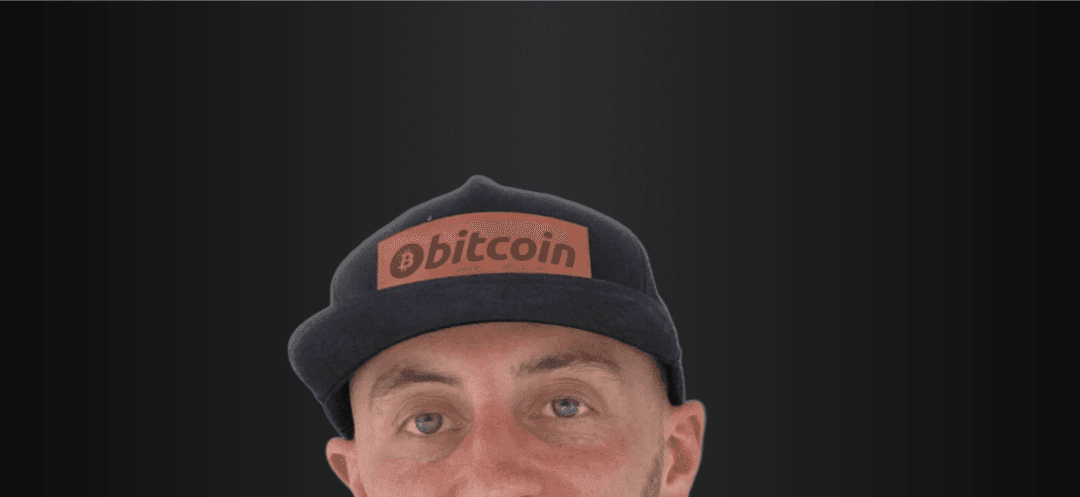
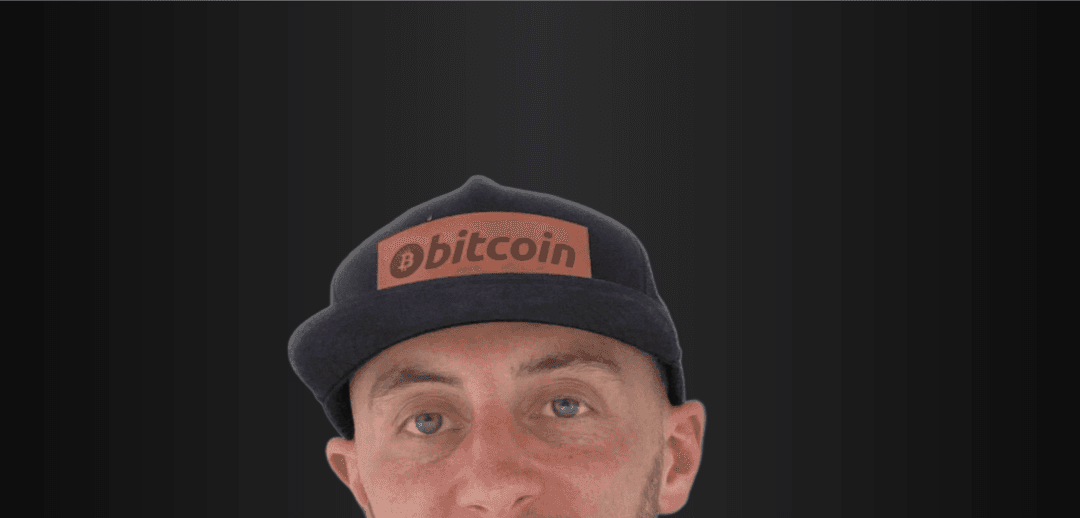
Fix CONTACT nav overflow on narrow phones, replace overly-tight mobile photo crop with fuller safe crop

Changed region(s): [[0.2444, 0.5734, 0.6722, 1.0], [0.3056, 0.332, 0.6111, 0.6036]]

diff --git a/contact.html b/contact.html
@@ -5,7 +5,7 @@
   <meta name="viewport" content="width=device-width, initial-scale=1.0" />
   <title>Contact &mdash; Christian Tiberia</title>
   <link rel="icon" type="image/png" href="images/CT Monogram.png" />
-  <link rel="stylesheet" href="style.css?v=7" />
+  <link rel="stylesheet" href="style.css?v=8" />
   <link rel="preconnect" href="https://fonts.googleapis.com" />
   <link rel="preconnect" href="https://fonts.gstatic.com" crossorigin />
   <link href="https://fonts.googleapis.com/css2?family=Archivo+Black&display=swap" rel="stylesheet" />

diff --git a/about.html b/about.html
@@ -5,7 +5,7 @@
   <meta name="viewport" content="width=device-width, initial-scale=1.0" />
   <title>About &mdash; Christian Tiberia</title>
   <link rel="icon" type="image/png" href="images/CT Monogram.png" />
-  <link rel="stylesheet" href="style.css?v=7" />
+  <link rel="stylesheet" href="style.css?v=8" />
   <link rel="preconnect" href="https://fonts.googleapis.com" />
   <link rel="preconnect" href="https://fonts.gstatic.com" crossorigin />
   <link href="https://fonts.googleapis.com/css2?family=Archivo+Black&display=swap" rel="stylesheet" />

diff --git a/style.css b/style.css
@@ -12,6 +12,7 @@
 
 html { scroll-behavior: smooth; }
 
+html, body { overflow-x: hidden; }
 body {
   background: var(--black);
   color: var(--white);
@@ -116,4 +117,11 @@ footer p { font-size: .78rem; color: rgba(237, 234, 228, .35); }
 @media (max-width: 600px) {
   .site-nav { padding: 1rem 1.2rem; }
   .nav-links { gap: 1.1rem; }
+}
+
+@media (max-width: 420px) {
+  .site-nav { padding: .85rem .9rem; }
+  .nav-links { gap: .8rem; }
+  .nav-links a { font-size: .8rem; letter-spacing: .03em; }
+  .nav-mark img { width: 32px; height: 32px; }
 }

diff --git a/index.html b/index.html
@@ -5,7 +5,7 @@
   <meta name="viewport" content="width=device-width, initial-scale=1.0" />
   <title>Christian Tiberia</title>
   <link rel="icon" type="image/png" href="images/CT Monogram.png" />
-  <link rel="stylesheet" href="style.css?v=7" />
+  <link rel="stylesheet" href="style.css?v=8" />
   <link rel="preconnect" href="https://fonts.googleapis.com" />
   <link rel="preconnect" href="https://fonts.gstatic.com" crossorigin />
   <link href="https://fonts.googleapis.com/css2?family=Archivo+Black&display=swap" rel="stylesheet" />
